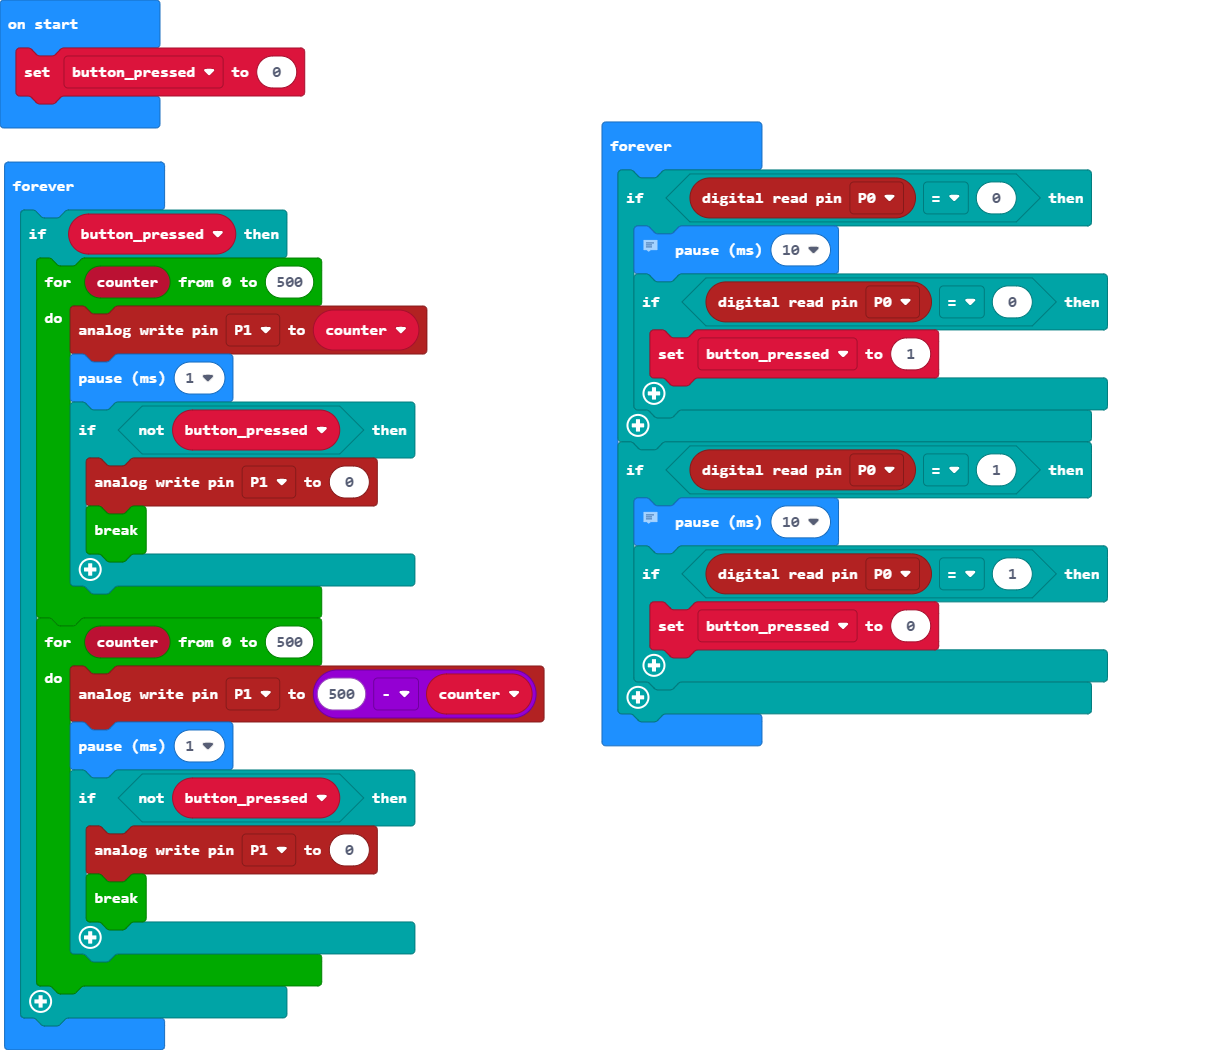
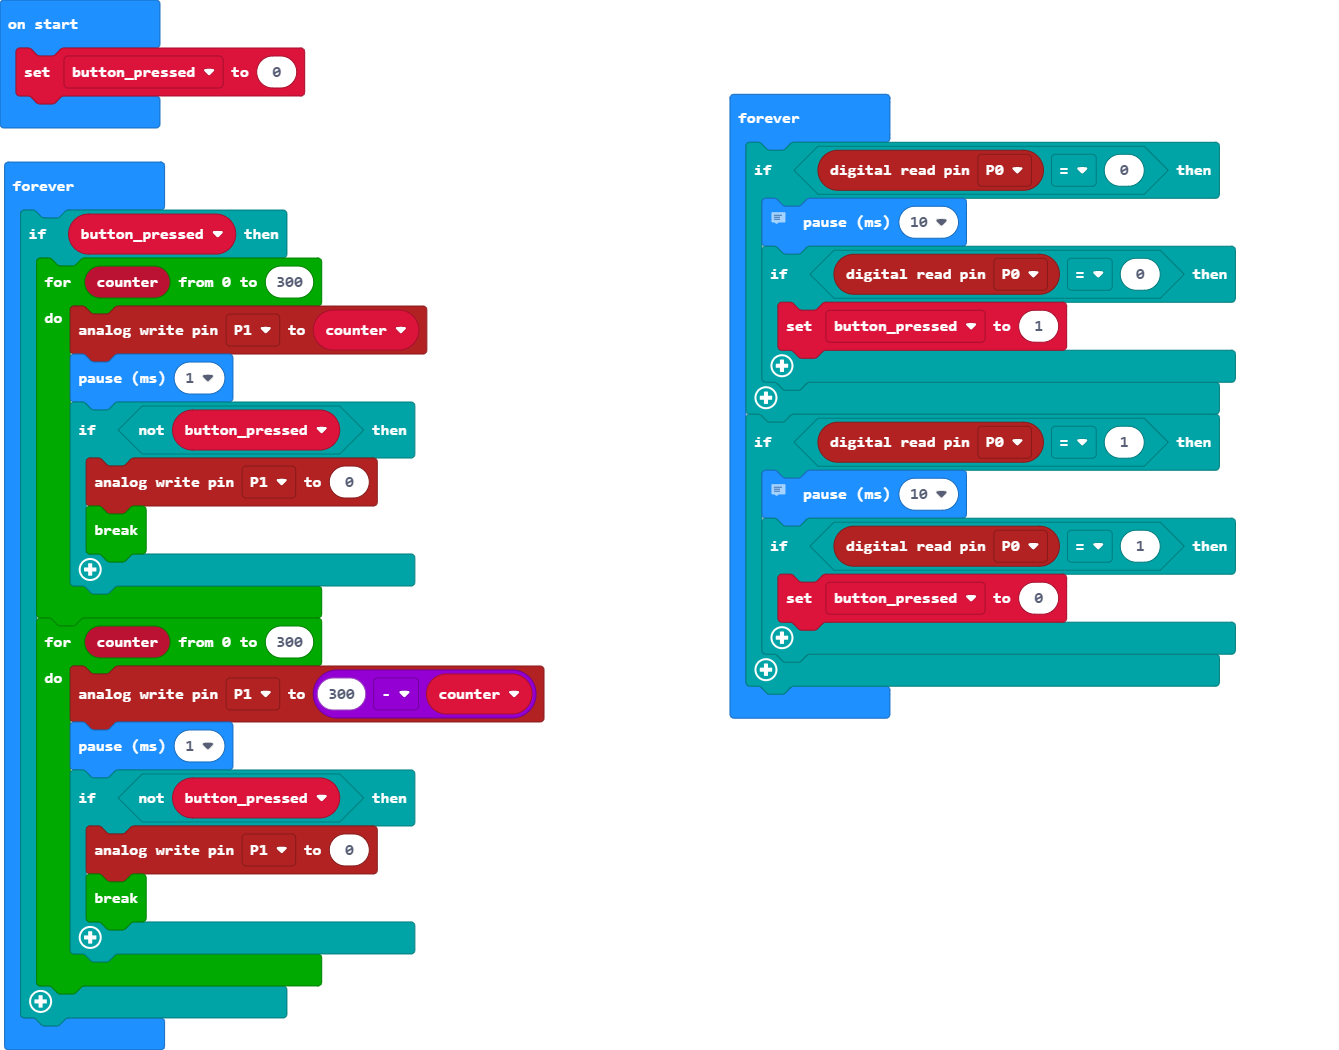
Update main.blocks, main.ts

diff --git a/main.ts b/main.ts
@@ -17,7 +17,7 @@ basic.forever(function () {
 })
 basic.forever(function () {
     if (button_pressed) {
-        for (let counter = 0; counter <= 500; counter++) {
+        for (let counter = 0; counter <= 300; counter++) {
             pins.analogWritePin(AnalogPin.P1, counter)
             basic.pause(1)
             if (!(button_pressed)) {
@@ -25,8 +25,8 @@ basic.forever(function () {
                 break;
             }
         }
-        for (let counter = 0; counter <= 500; counter++) {
-            pins.analogWritePin(AnalogPin.P1, 500 - counter)
+        for (let counter = 0; counter <= 300; counter++) {
+            pins.analogWritePin(AnalogPin.P1, 300 - counter)
             basic.pause(1)
             if (!(button_pressed)) {
                 pins.analogWritePin(AnalogPin.P1, 0)
